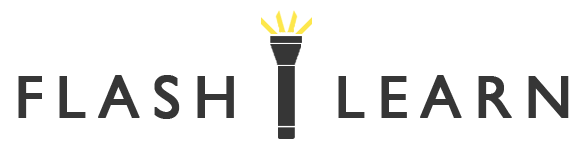
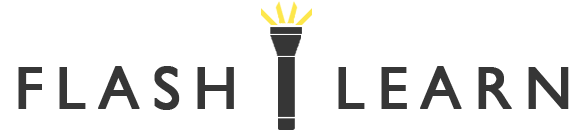
html

diff --git a/style.css b/style.css
@@ -20,40 +20,53 @@ nav img {
     margin-left: auto;
     margin-right:auto;
     display:block;
-    height:30%;
-    width:30%;
+    height:35%;
+    width:35%;
 }
 h1{
     text-align:center;
     font-size:2em;
 }
+#first {
+    margin-right:2.5em;
+}
 li {
     float:right;
-    padding-right: 0.9em;
+    padding-right: 1em;
 }
 ul {
     list-style-type: none;
     display:inline;
     font-size:.9em;
 }
-#content {
-    margin-top:12em;
+ul a {
+    color:black;
+    text-decoration: none;
+}
+li a:hover {
+    color:#FDE74C;
+}
+ul a:visited {
+    color:black;
+}
+.content {
+    margin-top:10em;
     margin-left: auto;
     margin-right: auto;
     height:auto;
     width:50%;
-    border:solid;
+    border-radius:5px;
+    font-size:1.5em;
 }
 
 .slide {
     height:auto;
-    padding-top:5em;
-    padding-bottom:5em;
+    margin-top:5em;
+    margin-bottom:5em;
 }
 #slide1 {
-    background-color:#363636;
+    background-color:white;
     text-align: center;
-    color:white;
 }
 #slide1 img {
     float:left;
@@ -61,6 +74,14 @@ ul {
     padding-top:4em;
     padding:1em;
 }
+#slide1 p{
+    dislay:none;
+}
 #slide2 {
-
+    background-color:#363636;
+    text-align: center;
+    color:white;
+}
+#submitbutton {
+    font-family: 'Open Sans' , sans-serif;
 }

diff --git a/mainupload.html b/mainupload.html
@@ -2,7 +2,18 @@
 <html>
     <head>
         <title>FlashLearn</title>
+        <link rel="stylesheet" type="text/css" href="style.css"/>
+        <link href='https://fonts.googleapis.com/css?family=Open+Sans:300,600' rel='stylesheet' type='text/css'>
+        <script src="https://ajax.googleapis.com/ajax/libs/jquery/2.1.3/jquery.min.js"></script>
+        <script src="script.js"></script>
     </head>
     <body>
+        <div class="content">
+            Upload your image here
+            <form class="uploadimage" method = "post" enctype="multipart/form-data">
+                <input type="file" name="img" accept="image/gif, image/jpeg, image/png">
+                <input type="submit" name="upload" value="Upload" id="submitbutton">
+            </form>
+        </div>
     </body>
 </html>

diff --git a/home.html b/home.html
@@ -13,12 +13,12 @@
             <!-- <h1>F L A S H &nbsp | &nbsp L E A R N</h1> -->
             <img src="unnamed.png"/>
             <ul>
-                <li>sign up</li>
-                <li>sign in</li>
+                <li id="first">register</li>
+                <li>log in</li>
                 <li><a href="mainupload.html">upload</a></li>
             </ul>
         </nav>
-        <div id = "content">
+        <div class = "content">
             <div id="slide1" class="slide">
                 <p>Turn your text files into flashcards</p>
                 <!-- <div id="imagediv">

diff --git a/script.js b/script.js
@@ -1,0 +1,3 @@
+$(document).ready(function() {
+    $('#slide1 p').fadeIn(4000);
+});
